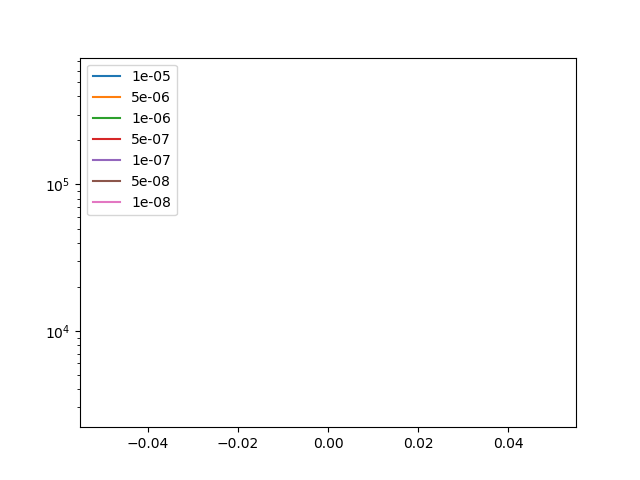
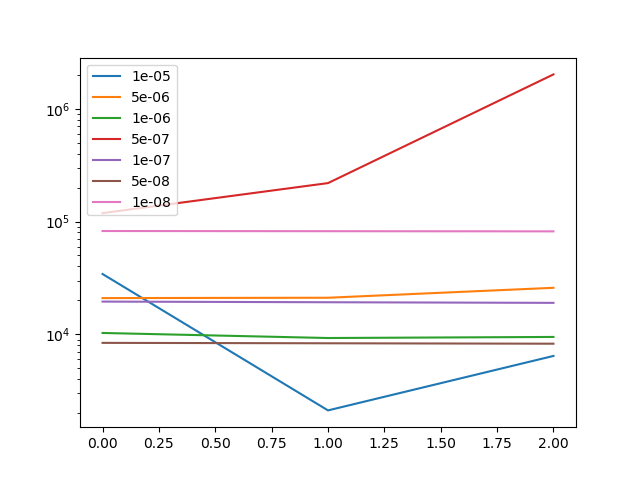
Update

diff --git a/dynamics/autograd.py b/dynamics/autograd.py
@@ -15,7 +15,7 @@ y_size, x_size, mid_dim = 100, 100, 100
 
 learning_rate_list = [1e-5, 5e-6, 1e-6, 5e-7, 1e-7, 5e-8, 1e-8]
 
-epoch = int(1)
+epoch = int(3)
 x_axis = list(range(epoch))
 
 loss_dict, condition_number_dict, max_allowed_learning_rate_dict = {}, {}, {}
